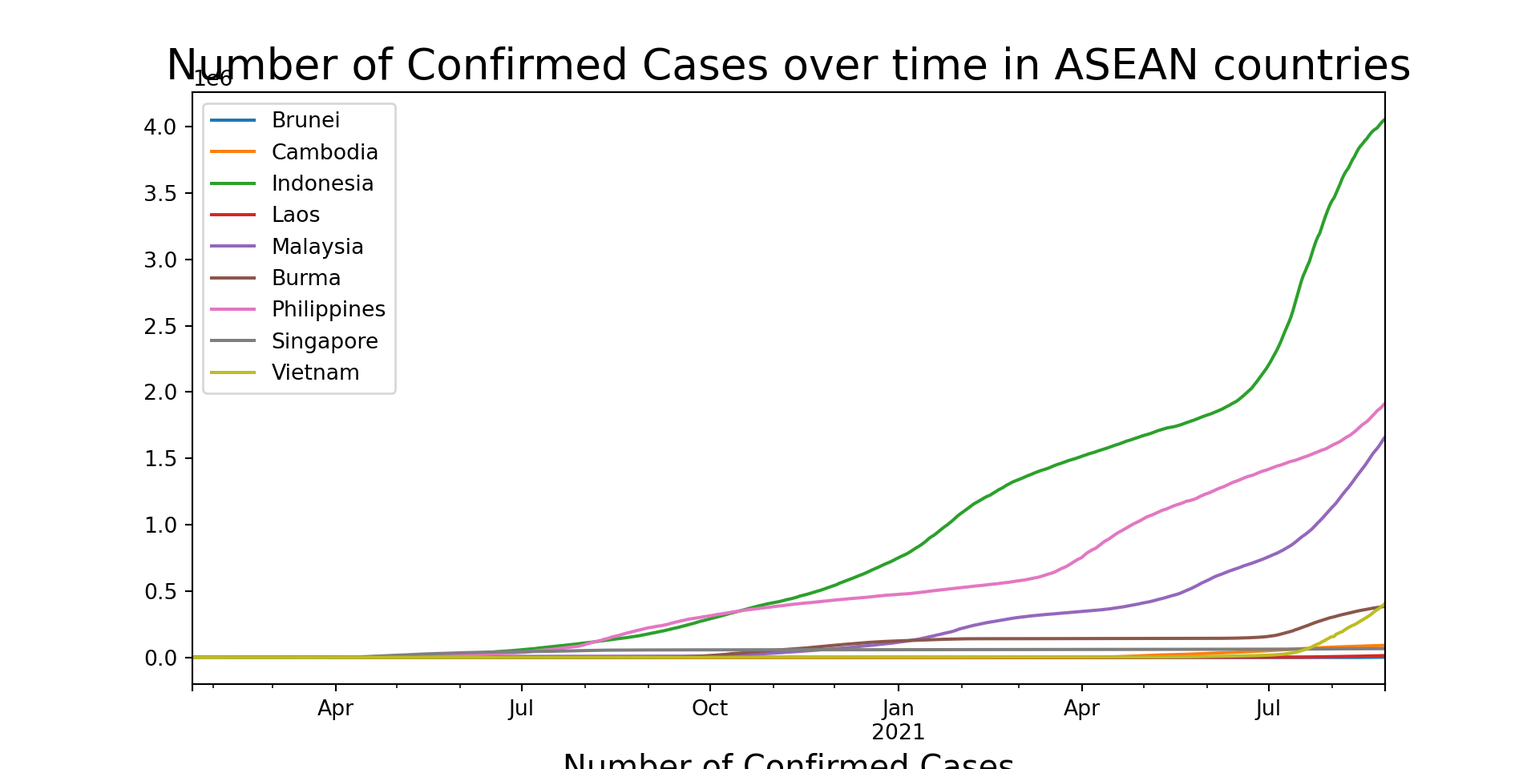
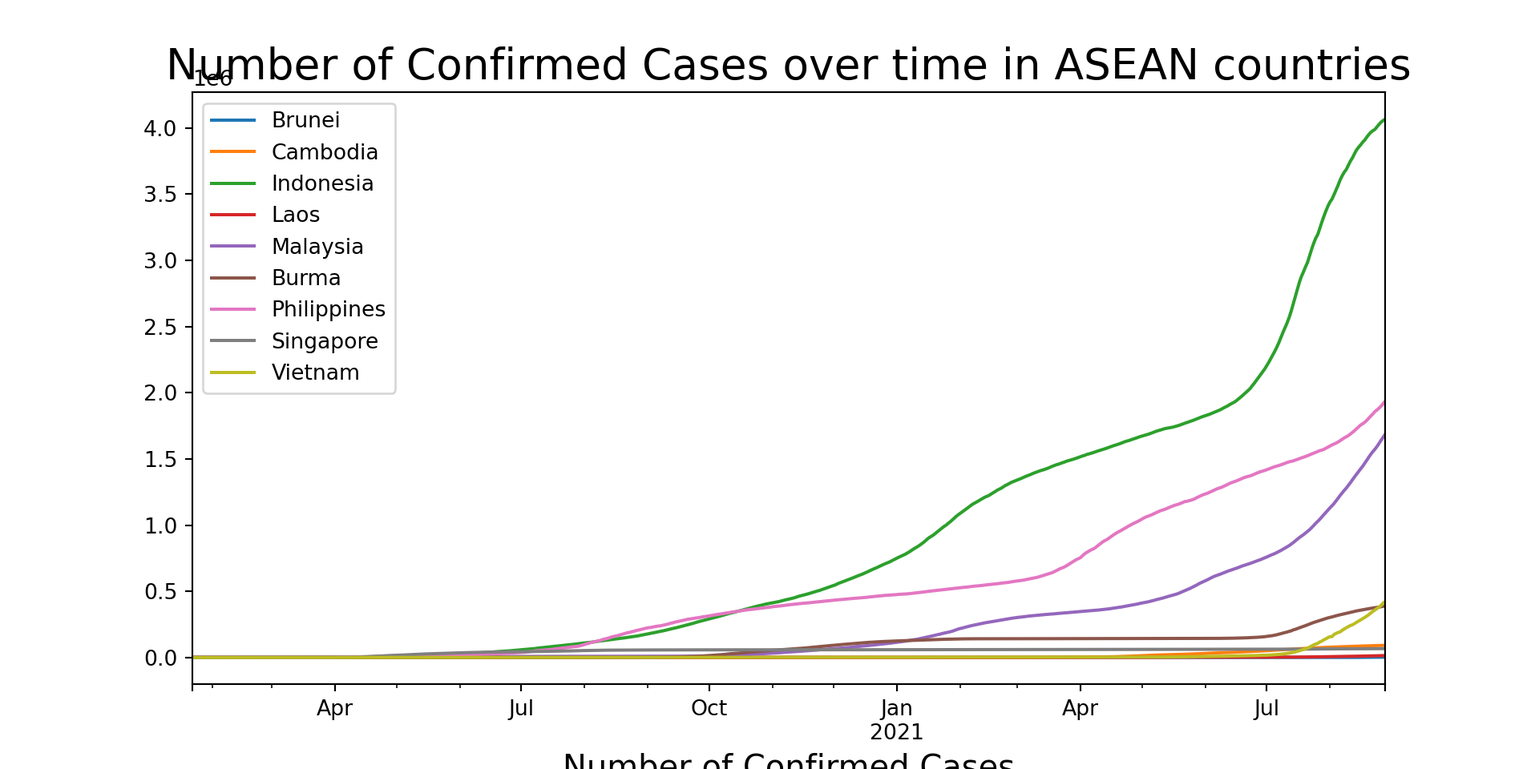
Updated Exploratory Plots using pandas using height weight gender
Found a dataset online containing height (inches) and weight (lbs) of various genders.

Dataset was trimmed to 100 Females and 100 Males. Height was converted to centimeters and weight was converted to kilograms. The rows were then shuffled.

This dataset was subsequently used for Exploratory Plots using Pandas.

diff --git a/docs/using-pandas-to-explore-data.html b/docs/using-pandas-to-explore-data.html
@@ -99,26 +99,27 @@
 <span id="cb59-7"><a href="using-pandas-to-explore-data.html#cb59-7" aria-hidden="true" tabindex="-1"></a>plt.subplots(figsize <span class="op">=</span> (<span class="dv">10</span>,<span class="dv">7</span>))</span>
 <span id="cb59-8"><a href="using-pandas-to-explore-data.html#cb59-8" aria-hidden="true" tabindex="-1"></a></span>
 <span id="cb59-9"><a href="using-pandas-to-explore-data.html#cb59-9" aria-hidden="true" tabindex="-1"></a><span class="co"># Reading in the dataset as df</span></span>
-<span id="cb59-10"><a href="using-pandas-to-explore-data.html#cb59-10" aria-hidden="true" tabindex="-1"></a>df <span class="op">=</span> pd.read_csv(<span class="st">"https://raw.githubusercontent.com/darren1998s/darren1998s.github.io/main/iris.csv"</span>)</span>
+<span id="cb59-10"><a href="using-pandas-to-explore-data.html#cb59-10" aria-hidden="true" tabindex="-1"></a>df <span class="op">=</span> pd.read_csv(<span class="st">"https://raw.githubusercontent.com/nus-sps/workshops.tfi.data-visualisation/main/files/height-weight-metric.csv"</span>)</span>
 <span id="cb59-11"><a href="using-pandas-to-explore-data.html#cb59-11" aria-hidden="true" tabindex="-1"></a></span>
 <span id="cb59-12"><a href="using-pandas-to-explore-data.html#cb59-12" aria-hidden="true" tabindex="-1"></a><span class="co"># Creating a function to calculate standard error</span></span>
 <span id="cb59-13"><a href="using-pandas-to-explore-data.html#cb59-13" aria-hidden="true" tabindex="-1"></a><span class="kw">def</span> se(data):</span>
 <span id="cb59-14"><a href="using-pandas-to-explore-data.html#cb59-14" aria-hidden="true" tabindex="-1"></a>    <span class="cf">return</span> np.std(data) <span class="op">/</span> np.sqrt(data.count())</span>
 <span id="cb59-15"><a href="using-pandas-to-explore-data.html#cb59-15" aria-hidden="true" tabindex="-1"></a></span>
-<span id="cb59-16"><a href="using-pandas-to-explore-data.html#cb59-16" aria-hidden="true" tabindex="-1"></a><span class="co"># Grouping the data set of "Petal.Length" by Species</span></span>
-<span id="cb59-17"><a href="using-pandas-to-explore-data.html#cb59-17" aria-hidden="true" tabindex="-1"></a>grouped_species <span class="op">=</span> df.groupby(<span class="st">"Species"</span>)[<span class="st">'Petal.Length'</span>]</span>
+<span id="cb59-16"><a href="using-pandas-to-explore-data.html#cb59-16" aria-hidden="true" tabindex="-1"></a><span class="co"># Grouping the data set of "Height" by Gender</span></span>
+<span id="cb59-17"><a href="using-pandas-to-explore-data.html#cb59-17" aria-hidden="true" tabindex="-1"></a>grouped_gender <span class="op">=</span> df.groupby(<span class="st">"Gender"</span>)[<span class="st">'Height'</span>]</span>
 <span id="cb59-18"><a href="using-pandas-to-explore-data.html#cb59-18" aria-hidden="true" tabindex="-1"></a></span>
 <span id="cb59-19"><a href="using-pandas-to-explore-data.html#cb59-19" aria-hidden="true" tabindex="-1"></a><span class="co"># Applying functions np.mean() and se() to our grouped dataset</span></span>
-<span id="cb59-20"><a href="using-pandas-to-explore-data.html#cb59-20" aria-hidden="true" tabindex="-1"></a>new_df <span class="op">=</span> grouped_species.agg([np.mean, se])</span>
+<span id="cb59-20"><a href="using-pandas-to-explore-data.html#cb59-20" aria-hidden="true" tabindex="-1"></a>new_df <span class="op">=</span> grouped_gender.agg([np.mean, se])</span>
 <span id="cb59-21"><a href="using-pandas-to-explore-data.html#cb59-21" aria-hidden="true" tabindex="-1"></a></span>
 <span id="cb59-22"><a href="using-pandas-to-explore-data.html#cb59-22" aria-hidden="true" tabindex="-1"></a>new_df.plot(kind <span class="op">=</span> <span class="st">'bar'</span>, yerr <span class="op">=</span> <span class="st">'se'</span>,capsize<span class="op">=</span><span class="dv">10</span>, rot<span class="op">=</span><span class="dv">0</span>)</span>
 <span id="cb59-23"><a href="using-pandas-to-explore-data.html#cb59-23" aria-hidden="true" tabindex="-1"></a></span>
 <span id="cb59-24"><a href="using-pandas-to-explore-data.html#cb59-24" aria-hidden="true" tabindex="-1"></a><span class="co"># Don't forget to add the labels for clarity!</span></span>
-<span id="cb59-25"><a href="using-pandas-to-explore-data.html#cb59-25" aria-hidden="true" tabindex="-1"></a>plt.ylabel(<span class="st">'Average Petal Length'</span>, fontsize <span class="op">=</span> <span class="dv">10</span>)</span>
-<span id="cb59-26"><a href="using-pandas-to-explore-data.html#cb59-26" aria-hidden="true" tabindex="-1"></a>plt.xlabel(<span class="st">'Species'</span>, fontsize <span class="op">=</span> <span class="dv">10</span>)</span>
-<span id="cb59-27"><a href="using-pandas-to-explore-data.html#cb59-27" aria-hidden="true" tabindex="-1"></a>plt.title(<span class="st">'Average Petal Length vs Species'</span>, fontsize <span class="op">=</span> <span class="dv">20</span>)</span>
-<span id="cb59-28"><a href="using-pandas-to-explore-data.html#cb59-28" aria-hidden="true" tabindex="-1"></a>plt.tight_layout()</span>
-<span id="cb59-29"><a href="using-pandas-to-explore-data.html#cb59-29" aria-hidden="true" tabindex="-1"></a>plt.show()</span></code></pre></div>
+<span id="cb59-25"><a href="using-pandas-to-explore-data.html#cb59-25" aria-hidden="true" tabindex="-1"></a>plt.ylabel(<span class="st">'Average Height (cm)'</span>, fontsize <span class="op">=</span> <span class="dv">10</span>)</span>
+<span id="cb59-26"><a href="using-pandas-to-explore-data.html#cb59-26" aria-hidden="true" tabindex="-1"></a>plt.xlabel(<span class="st">'Gender'</span>, fontsize <span class="op">=</span> <span class="dv">10</span>)</span>
+<span id="cb59-27"><a href="using-pandas-to-explore-data.html#cb59-27" aria-hidden="true" tabindex="-1"></a>plt.title(<span class="st">'Average Height (cm) vs Gender'</span>, fontsize <span class="op">=</span> <span class="dv">20</span>)</span>
+<span id="cb59-28"><a href="using-pandas-to-explore-data.html#cb59-28" aria-hidden="true" tabindex="-1"></a>plt.legend().remove</span>
+<span id="cb59-29"><a href="using-pandas-to-explore-data.html#cb59-29" aria-hidden="true" tabindex="-1"></a>plt.tight_layout()</span>
+<span id="cb59-30"><a href="using-pandas-to-explore-data.html#cb59-30" aria-hidden="true" tabindex="-1"></a>plt.show()</span></code></pre></div>
 </div>
 </div>
 </div>
@@ -149,15 +150,15 @@
 <span id="cb60-6"><a href="using-pandas-to-explore-data.html#cb60-6" aria-hidden="true" tabindex="-1"></a>plt.subplots(figsize <span class="op">=</span> (<span class="dv">10</span>,<span class="dv">7</span>))</span>
 <span id="cb60-7"><a href="using-pandas-to-explore-data.html#cb60-7" aria-hidden="true" tabindex="-1"></a></span>
 <span id="cb60-8"><a href="using-pandas-to-explore-data.html#cb60-8" aria-hidden="true" tabindex="-1"></a><span class="co"># Reading in the dataset as df</span></span>
-<span id="cb60-9"><a href="using-pandas-to-explore-data.html#cb60-9" aria-hidden="true" tabindex="-1"></a>df <span class="op">=</span> pd.read_csv(<span class="st">"https://raw.githubusercontent.com/darren1998s/darren1998s.github.io/main/iris.csv"</span>)</span>
+<span id="cb60-9"><a href="using-pandas-to-explore-data.html#cb60-9" aria-hidden="true" tabindex="-1"></a>df <span class="op">=</span> pd.read_csv(<span class="st">"https://raw.githubusercontent.com/nus-sps/workshops.tfi.data-visualisation/main/files/height-weight-metric.csv"</span>)</span>
 <span id="cb60-10"><a href="using-pandas-to-explore-data.html#cb60-10" aria-hidden="true" tabindex="-1"></a></span>
-<span id="cb60-11"><a href="using-pandas-to-explore-data.html#cb60-11" aria-hidden="true" tabindex="-1"></a>df[<span class="st">'Petal.Length'</span>].plot(kind<span class="op">=</span><span class="st">'hist'</span>)</span>
+<span id="cb60-11"><a href="using-pandas-to-explore-data.html#cb60-11" aria-hidden="true" tabindex="-1"></a>df[<span class="st">'Height'</span>].plot(kind<span class="op">=</span><span class="st">'hist'</span>)</span>
 <span id="cb60-12"><a href="using-pandas-to-explore-data.html#cb60-12" aria-hidden="true" tabindex="-1"></a></span>
 <span id="cb60-13"><a href="using-pandas-to-explore-data.html#cb60-13" aria-hidden="true" tabindex="-1"></a></span>
 <span id="cb60-14"><a href="using-pandas-to-explore-data.html#cb60-14" aria-hidden="true" tabindex="-1"></a><span class="co"># Label your axis</span></span>
 <span id="cb60-15"><a href="using-pandas-to-explore-data.html#cb60-15" aria-hidden="true" tabindex="-1"></a>plt.ylabel(<span class="st">'Frequency'</span>, fontsize <span class="op">=</span> <span class="dv">10</span>)</span>
-<span id="cb60-16"><a href="using-pandas-to-explore-data.html#cb60-16" aria-hidden="true" tabindex="-1"></a>plt.xlabel(<span class="st">'Petal Length'</span>, fontsize <span class="op">=</span> <span class="dv">10</span>)</span>
-<span id="cb60-17"><a href="using-pandas-to-explore-data.html#cb60-17" aria-hidden="true" tabindex="-1"></a>plt.title(<span class="st">'Frequency of Petal Length'</span>, fontsize <span class="op">=</span> <span class="dv">20</span>)</span>
+<span id="cb60-16"><a href="using-pandas-to-explore-data.html#cb60-16" aria-hidden="true" tabindex="-1"></a>plt.xlabel(<span class="st">'Height (cm)'</span>, fontsize <span class="op">=</span> <span class="dv">10</span>)</span>
+<span id="cb60-17"><a href="using-pandas-to-explore-data.html#cb60-17" aria-hidden="true" tabindex="-1"></a>plt.title(<span class="st">'Histogram of Height (cm)'</span>, fontsize <span class="op">=</span> <span class="dv">20</span>)</span>
 <span id="cb60-18"><a href="using-pandas-to-explore-data.html#cb60-18" aria-hidden="true" tabindex="-1"></a>plt.tight_layout()</span>
 <span id="cb60-19"><a href="using-pandas-to-explore-data.html#cb60-19" aria-hidden="true" tabindex="-1"></a>plt.legend()</span>
 <span id="cb60-20"><a href="using-pandas-to-explore-data.html#cb60-20" aria-hidden="true" tabindex="-1"></a>plt.show()</span></code></pre></div>
@@ -182,16 +183,16 @@
 <span id="cb61-6"><a href="using-pandas-to-explore-data.html#cb61-6" aria-hidden="true" tabindex="-1"></a>plt.subplots(figsize <span class="op">=</span> (<span class="dv">10</span>,<span class="dv">7</span>))</span>
 <span id="cb61-7"><a href="using-pandas-to-explore-data.html#cb61-7" aria-hidden="true" tabindex="-1"></a></span>
 <span id="cb61-8"><a href="using-pandas-to-explore-data.html#cb61-8" aria-hidden="true" tabindex="-1"></a><span class="co"># Reading in the dataset as df</span></span>
-<span id="cb61-9"><a href="using-pandas-to-explore-data.html#cb61-9" aria-hidden="true" tabindex="-1"></a>df <span class="op">=</span> pd.read_csv(<span class="st">"https://raw.githubusercontent.com/darren1998s/darren1998s.github.io/main/iris.csv"</span>)</span>
+<span id="cb61-9"><a href="using-pandas-to-explore-data.html#cb61-9" aria-hidden="true" tabindex="-1"></a>df <span class="op">=</span> pd.read_csv(<span class="st">"https://raw.githubusercontent.com/nus-sps/workshops.tfi.data-visualisation/main/files/height-weight-metric.csv"</span>)</span>
 <span id="cb61-10"><a href="using-pandas-to-explore-data.html#cb61-10" aria-hidden="true" tabindex="-1"></a></span>
-<span id="cb61-11"><a href="using-pandas-to-explore-data.html#cb61-11" aria-hidden="true" tabindex="-1"></a>grouped_species <span class="op">=</span> df.groupby(<span class="st">"Species"</span>)[<span class="st">'Petal.Length'</span>]</span>
-<span id="cb61-12"><a href="using-pandas-to-explore-data.html#cb61-12" aria-hidden="true" tabindex="-1"></a>grouped_species.plot(kind<span class="op">=</span><span class="st">'hist'</span>, alpha <span class="op">=</span> <span class="fl">0.5</span>)</span>
+<span id="cb61-11"><a href="using-pandas-to-explore-data.html#cb61-11" aria-hidden="true" tabindex="-1"></a>grouped_gender <span class="op">=</span> df.groupby(<span class="st">"Gender"</span>)[<span class="st">'Height'</span>]</span>
+<span id="cb61-12"><a href="using-pandas-to-explore-data.html#cb61-12" aria-hidden="true" tabindex="-1"></a>grouped_gender.plot(kind<span class="op">=</span><span class="st">'hist'</span>, alpha <span class="op">=</span> <span class="fl">0.5</span>, bins <span class="op">=</span> <span class="dv">15</span>)</span>
 <span id="cb61-13"><a href="using-pandas-to-explore-data.html#cb61-13" aria-hidden="true" tabindex="-1"></a></span>
 <span id="cb61-14"><a href="using-pandas-to-explore-data.html#cb61-14" aria-hidden="true" tabindex="-1"></a></span>
 <span id="cb61-15"><a href="using-pandas-to-explore-data.html#cb61-15" aria-hidden="true" tabindex="-1"></a><span class="co"># Label your axis</span></span>
 <span id="cb61-16"><a href="using-pandas-to-explore-data.html#cb61-16" aria-hidden="true" tabindex="-1"></a>plt.ylabel(<span class="st">'Frequency'</span>, fontsize <span class="op">=</span> <span class="dv">10</span>)</span>
-<span id="cb61-17"><a href="using-pandas-to-explore-data.html#cb61-17" aria-hidden="true" tabindex="-1"></a>plt.xlabel(<span class="st">'Petal Length'</span>, fontsize <span class="op">=</span> <span class="dv">10</span>)</span>
-<span id="cb61-18"><a href="using-pandas-to-explore-data.html#cb61-18" aria-hidden="true" tabindex="-1"></a>plt.title(<span class="st">'Frequency of Petal Length grouped by Species'</span>, fontsize <span class="op">=</span> <span class="dv">20</span>)</span>
+<span id="cb61-17"><a href="using-pandas-to-explore-data.html#cb61-17" aria-hidden="true" tabindex="-1"></a>plt.xlabel(<span class="st">'Height (cm)'</span>, fontsize <span class="op">=</span> <span class="dv">10</span>)</span>
+<span id="cb61-18"><a href="using-pandas-to-explore-data.html#cb61-18" aria-hidden="true" tabindex="-1"></a>plt.title(<span class="st">'Histogram of Height (cm) grouped by Gender'</span>, fontsize <span class="op">=</span> <span class="dv">20</span>)</span>
 <span id="cb61-19"><a href="using-pandas-to-explore-data.html#cb61-19" aria-hidden="true" tabindex="-1"></a>plt.tight_layout()</span>
 <span id="cb61-20"><a href="using-pandas-to-explore-data.html#cb61-20" aria-hidden="true" tabindex="-1"></a>plt.legend()</span>
 <span id="cb61-21"><a href="using-pandas-to-explore-data.html#cb61-21" aria-hidden="true" tabindex="-1"></a>plt.show()</span></code></pre></div>
@@ -225,15 +226,15 @@
 <span id="cb62-6"><a href="using-pandas-to-explore-data.html#cb62-6" aria-hidden="true" tabindex="-1"></a>plt.subplots(figsize <span class="op">=</span> (<span class="dv">10</span>,<span class="dv">7</span>))</span>
 <span id="cb62-7"><a href="using-pandas-to-explore-data.html#cb62-7" aria-hidden="true" tabindex="-1"></a></span>
 <span id="cb62-8"><a href="using-pandas-to-explore-data.html#cb62-8" aria-hidden="true" tabindex="-1"></a><span class="co"># Reading in the dataset as df</span></span>
-<span id="cb62-9"><a href="using-pandas-to-explore-data.html#cb62-9" aria-hidden="true" tabindex="-1"></a>df <span class="op">=</span> pd.read_csv(<span class="st">"https://raw.githubusercontent.com/darren1998s/darren1998s.github.io/main/iris.csv"</span>)</span>
+<span id="cb62-9"><a href="using-pandas-to-explore-data.html#cb62-9" aria-hidden="true" tabindex="-1"></a>df <span class="op">=</span> pd.read_csv(<span class="st">"https://raw.githubusercontent.com/nus-sps/workshops.tfi.data-visualisation/main/files/height-weight-metric.csv"</span>)</span>
 <span id="cb62-10"><a href="using-pandas-to-explore-data.html#cb62-10" aria-hidden="true" tabindex="-1"></a></span>
 <span id="cb62-11"><a href="using-pandas-to-explore-data.html#cb62-11" aria-hidden="true" tabindex="-1"></a></span>
-<span id="cb62-12"><a href="using-pandas-to-explore-data.html#cb62-12" aria-hidden="true" tabindex="-1"></a>df.plot(<span class="st">"Petal.Width"</span>, <span class="st">'Petal.Length'</span>, kind<span class="op">=</span><span class="st">'scatter'</span>)</span>
+<span id="cb62-12"><a href="using-pandas-to-explore-data.html#cb62-12" aria-hidden="true" tabindex="-1"></a>df.plot(<span class="st">"Height"</span>, <span class="st">'Weight'</span>, kind<span class="op">=</span><span class="st">'scatter'</span>)</span>
 <span id="cb62-13"><a href="using-pandas-to-explore-data.html#cb62-13" aria-hidden="true" tabindex="-1"></a></span>
 <span id="cb62-14"><a href="using-pandas-to-explore-data.html#cb62-14" aria-hidden="true" tabindex="-1"></a><span class="co"># Label your axis</span></span>
-<span id="cb62-15"><a href="using-pandas-to-explore-data.html#cb62-15" aria-hidden="true" tabindex="-1"></a>plt.ylabel(<span class="st">'Petal Length'</span>, fontsize <span class="op">=</span> <span class="dv">10</span>)</span>
-<span id="cb62-16"><a href="using-pandas-to-explore-data.html#cb62-16" aria-hidden="true" tabindex="-1"></a>plt.xlabel(<span class="st">'Petal Width'</span>, fontsize <span class="op">=</span> <span class="dv">10</span>)</span>
-<span id="cb62-17"><a href="using-pandas-to-explore-data.html#cb62-17" aria-hidden="true" tabindex="-1"></a>plt.title(<span class="st">'Length vs Width of Petals'</span>, fontsize <span class="op">=</span> <span class="dv">20</span>)</span>
+<span id="cb62-15"><a href="using-pandas-to-explore-data.html#cb62-15" aria-hidden="true" tabindex="-1"></a>plt.xlabel(<span class="st">'Height (cm)'</span>, fontsize <span class="op">=</span> <span class="dv">10</span>)</span>
+<span id="cb62-16"><a href="using-pandas-to-explore-data.html#cb62-16" aria-hidden="true" tabindex="-1"></a>plt.ylabel(<span class="st">'Weight (kg)'</span>, fontsize <span class="op">=</span> <span class="dv">10</span>)</span>
+<span id="cb62-17"><a href="using-pandas-to-explore-data.html#cb62-17" aria-hidden="true" tabindex="-1"></a>plt.title(<span class="st">'Weight (kg) vs Height (cm)'</span>, fontsize <span class="op">=</span> <span class="dv">20</span>)</span>
 <span id="cb62-18"><a href="using-pandas-to-explore-data.html#cb62-18" aria-hidden="true" tabindex="-1"></a>plt.tight_layout()</span>
 <span id="cb62-19"><a href="using-pandas-to-explore-data.html#cb62-19" aria-hidden="true" tabindex="-1"></a>plt.legend()</span>
 <span id="cb62-20"><a href="using-pandas-to-explore-data.html#cb62-20" aria-hidden="true" tabindex="-1"></a>plt.show()</span></code></pre></div>
@@ -257,21 +258,21 @@
 <span id="cb63-6"><a href="using-pandas-to-explore-data.html#cb63-6" aria-hidden="true" tabindex="-1"></a>plt.subplots(figsize <span class="op">=</span> (<span class="dv">10</span>,<span class="dv">7</span>))</span>
 <span id="cb63-7"><a href="using-pandas-to-explore-data.html#cb63-7" aria-hidden="true" tabindex="-1"></a></span>
 <span id="cb63-8"><a href="using-pandas-to-explore-data.html#cb63-8" aria-hidden="true" tabindex="-1"></a><span class="co"># Reading in the dataset as df</span></span>
-<span id="cb63-9"><a href="using-pandas-to-explore-data.html#cb63-9" aria-hidden="true" tabindex="-1"></a>df <span class="op">=</span> pd.read_csv(<span class="st">"https://raw.githubusercontent.com/darren1998s/darren1998s.github.io/main/iris.csv"</span>)</span>
+<span id="cb63-9"><a href="using-pandas-to-explore-data.html#cb63-9" aria-hidden="true" tabindex="-1"></a>df <span class="op">=</span> pd.read_csv(<span class="st">"https://raw.githubusercontent.com/nus-sps/workshops.tfi.data-visualisation/main/files/height-weight-metric.csv"</span>)</span>
 <span id="cb63-10"><a href="using-pandas-to-explore-data.html#cb63-10" aria-hidden="true" tabindex="-1"></a></span>
-<span id="cb63-11"><a href="using-pandas-to-explore-data.html#cb63-11" aria-hidden="true" tabindex="-1"></a>grouped_species <span class="op">=</span> df.groupby(<span class="st">"Species"</span>)</span>
+<span id="cb63-11"><a href="using-pandas-to-explore-data.html#cb63-11" aria-hidden="true" tabindex="-1"></a>grouped_gender <span class="op">=</span> df.groupby(<span class="st">"Gender"</span>)</span>
 <span id="cb63-12"><a href="using-pandas-to-explore-data.html#cb63-12" aria-hidden="true" tabindex="-1"></a></span>
 <span id="cb63-13"><a href="using-pandas-to-explore-data.html#cb63-13" aria-hidden="true" tabindex="-1"></a><span class="co"># Calling plt.subplots().</span></span>
 <span id="cb63-14"><a href="using-pandas-to-explore-data.html#cb63-14" aria-hidden="true" tabindex="-1"></a>fig, ax <span class="op">=</span> plt.subplots()</span>
 <span id="cb63-15"><a href="using-pandas-to-explore-data.html#cb63-15" aria-hidden="true" tabindex="-1"></a></span>
-<span id="cb63-16"><a href="using-pandas-to-explore-data.html#cb63-16" aria-hidden="true" tabindex="-1"></a><span class="cf">for</span> name, species <span class="kw">in</span> grouped_species:</span>
-<span id="cb63-17"><a href="using-pandas-to-explore-data.html#cb63-17" aria-hidden="true" tabindex="-1"></a>    ax.scatter(species[<span class="st">"Petal.Width"</span>], species[<span class="st">"Petal.Length"</span>], label<span class="op">=</span>name)</span>
+<span id="cb63-16"><a href="using-pandas-to-explore-data.html#cb63-16" aria-hidden="true" tabindex="-1"></a><span class="cf">for</span> name, gender <span class="kw">in</span> grouped_gender:</span>
+<span id="cb63-17"><a href="using-pandas-to-explore-data.html#cb63-17" aria-hidden="true" tabindex="-1"></a>    ax.scatter(gender[<span class="st">"Height"</span>], gender[<span class="st">"Weight"</span>], label<span class="op">=</span>name)</span>
 <span id="cb63-18"><a href="using-pandas-to-explore-data.html#cb63-18" aria-hidden="true" tabindex="-1"></a></span>
 <span id="cb63-19"><a href="using-pandas-to-explore-data.html#cb63-19" aria-hidden="true" tabindex="-1"></a></span>
 <span id="cb63-20"><a href="using-pandas-to-explore-data.html#cb63-20" aria-hidden="true" tabindex="-1"></a><span class="co"># Label your axis</span></span>
-<span id="cb63-21"><a href="using-pandas-to-explore-data.html#cb63-21" aria-hidden="true" tabindex="-1"></a>plt.ylabel(<span class="st">'Petal Length'</span>, fontsize <span class="op">=</span> <span class="dv">10</span>)</span>
-<span id="cb63-22"><a href="using-pandas-to-explore-data.html#cb63-22" aria-hidden="true" tabindex="-1"></a>plt.xlabel(<span class="st">'Petal Width'</span>, fontsize <span class="op">=</span> <span class="dv">10</span>)</span>
-<span id="cb63-23"><a href="using-pandas-to-explore-data.html#cb63-23" aria-hidden="true" tabindex="-1"></a>plt.title(<span class="st">'Length vs Width of Petals grouped by Species'</span>, fontsize <span class="op">=</span> <span class="dv">20</span>)</span>
+<span id="cb63-21"><a href="using-pandas-to-explore-data.html#cb63-21" aria-hidden="true" tabindex="-1"></a>plt.xlabel(<span class="st">'Height (cm)'</span>, fontsize <span class="op">=</span> <span class="dv">10</span>)</span>
+<span id="cb63-22"><a href="using-pandas-to-explore-data.html#cb63-22" aria-hidden="true" tabindex="-1"></a>plt.ylabel(<span class="st">'Weight (kg)'</span>, fontsize <span class="op">=</span> <span class="dv">10</span>)</span>
+<span id="cb63-23"><a href="using-pandas-to-explore-data.html#cb63-23" aria-hidden="true" tabindex="-1"></a>plt.title(<span class="st">'Weight (kg) vs Height (cm) grouped by Gender'</span>, fontsize <span class="op">=</span> <span class="dv">20</span>)</span>
 <span id="cb63-24"><a href="using-pandas-to-explore-data.html#cb63-24" aria-hidden="true" tabindex="-1"></a>plt.tight_layout()</span>
 <span id="cb63-25"><a href="using-pandas-to-explore-data.html#cb63-25" aria-hidden="true" tabindex="-1"></a>plt.legend()</span>
 <span id="cb63-26"><a href="using-pandas-to-explore-data.html#cb63-26" aria-hidden="true" tabindex="-1"></a>plt.show()</span></code></pre></div>
@@ -306,18 +307,19 @@
 <span id="cb64-6"><a href="using-pandas-to-explore-data.html#cb64-6" aria-hidden="true" tabindex="-1"></a>plt.subplots(figsize <span class="op">=</span> (<span class="dv">10</span>,<span class="dv">7</span>))</span>
 <span id="cb64-7"><a href="using-pandas-to-explore-data.html#cb64-7" aria-hidden="true" tabindex="-1"></a></span>
 <span id="cb64-8"><a href="using-pandas-to-explore-data.html#cb64-8" aria-hidden="true" tabindex="-1"></a><span class="co"># Reading in the dataset as df</span></span>
-<span id="cb64-9"><a href="using-pandas-to-explore-data.html#cb64-9" aria-hidden="true" tabindex="-1"></a>df <span class="op">=</span> pd.read_csv(<span class="st">"https://raw.githubusercontent.com/darren1998s/darren1998s.github.io/main/iris.csv"</span>)</span>
+<span id="cb64-9"><a href="using-pandas-to-explore-data.html#cb64-9" aria-hidden="true" tabindex="-1"></a>df <span class="op">=</span> pd.read_csv(<span class="st">"https://raw.githubusercontent.com/nus-sps/workshops.tfi.data-visualisation/main/files/height-weight-metric.csv"</span>)</span>
 <span id="cb64-10"><a href="using-pandas-to-explore-data.html#cb64-10" aria-hidden="true" tabindex="-1"></a></span>
 <span id="cb64-11"><a href="using-pandas-to-explore-data.html#cb64-11" aria-hidden="true" tabindex="-1"></a><span class="co">#Plotting boxplot</span></span>
-<span id="cb64-12"><a href="using-pandas-to-explore-data.html#cb64-12" aria-hidden="true" tabindex="-1"></a>df.boxplot(<span class="st">'Petal.Length'</span>, by<span class="op">=</span><span class="st">'Species'</span>)</span>
-<span id="cb64-13"><a href="using-pandas-to-explore-data.html#cb64-13" aria-hidden="true" tabindex="-1"></a></span>
-<span id="cb64-14"><a href="using-pandas-to-explore-data.html#cb64-14" aria-hidden="true" tabindex="-1"></a><span class="co"># Don't forget to add the labels for clarity!</span></span>
-<span id="cb64-15"><a href="using-pandas-to-explore-data.html#cb64-15" aria-hidden="true" tabindex="-1"></a>plt.suptitle(<span class="st">''</span>)</span>
-<span id="cb64-16"><a href="using-pandas-to-explore-data.html#cb64-16" aria-hidden="true" tabindex="-1"></a>plt.title(<span class="st">'Average Petal Length vs Species'</span>, fontsize <span class="op">=</span> <span class="dv">20</span>)</span>
-<span id="cb64-17"><a href="using-pandas-to-explore-data.html#cb64-17" aria-hidden="true" tabindex="-1"></a>plt.ylabel(<span class="st">'Petal Length'</span>, fontsize <span class="op">=</span> <span class="dv">10</span>)</span>
-<span id="cb64-18"><a href="using-pandas-to-explore-data.html#cb64-18" aria-hidden="true" tabindex="-1"></a>plt.xlabel(<span class="st">'Species'</span>, fontsize <span class="op">=</span> <span class="dv">10</span>)</span>
-<span id="cb64-19"><a href="using-pandas-to-explore-data.html#cb64-19" aria-hidden="true" tabindex="-1"></a>plt.tight_layout()</span>
-<span id="cb64-20"><a href="using-pandas-to-explore-data.html#cb64-20" aria-hidden="true" tabindex="-1"></a>plt.show()</span></code></pre></div>
+<span id="cb64-12"><a href="using-pandas-to-explore-data.html#cb64-12" aria-hidden="true" tabindex="-1"></a>ax <span class="op">=</span> df.boxplot(<span class="st">'Height'</span>, by<span class="op">=</span><span class="st">'Gender'</span>)</span>
+<span id="cb64-13"><a href="using-pandas-to-explore-data.html#cb64-13" aria-hidden="true" tabindex="-1"></a>ax.grid(<span class="va">False</span>)</span>
+<span id="cb64-14"><a href="using-pandas-to-explore-data.html#cb64-14" aria-hidden="true" tabindex="-1"></a></span>
+<span id="cb64-15"><a href="using-pandas-to-explore-data.html#cb64-15" aria-hidden="true" tabindex="-1"></a><span class="co"># Don't forget to add the labels for clarity!</span></span>
+<span id="cb64-16"><a href="using-pandas-to-explore-data.html#cb64-16" aria-hidden="true" tabindex="-1"></a>plt.suptitle(<span class="st">''</span>)</span>
+<span id="cb64-17"><a href="using-pandas-to-explore-data.html#cb64-17" aria-hidden="true" tabindex="-1"></a>plt.title(<span class="st">'Boxplot of Height (cm) grouped by Gender'</span>, fontsize <span class="op">=</span> <span class="dv">20</span>)</span>
+<span id="cb64-18"><a href="using-pandas-to-explore-data.html#cb64-18" aria-hidden="true" tabindex="-1"></a>plt.ylabel(<span class="st">'Height (cm)'</span>, fontsize <span class="op">=</span> <span class="dv">10</span>)</span>
+<span id="cb64-19"><a href="using-pandas-to-explore-data.html#cb64-19" aria-hidden="true" tabindex="-1"></a>plt.xlabel(<span class="st">'Gender'</span>, fontsize <span class="op">=</span> <span class="dv">10</span>)</span>
+<span id="cb64-20"><a href="using-pandas-to-explore-data.html#cb64-20" aria-hidden="true" tabindex="-1"></a>plt.tight_layout()</span>
+<span id="cb64-21"><a href="using-pandas-to-explore-data.html#cb64-21" aria-hidden="true" tabindex="-1"></a>plt.show()</span></code></pre></div>
 
 </div>
 </div>

diff --git a/docs/using-pandas-to-explore-covid-19-data.html b/docs/using-pandas-to-explore-covid-19-data.html
@@ -102,7 +102,7 @@
 <span id="cb65-2"><a href="using-pandas-to-explore-covid-19-data.html#cb65-2" aria-hidden="true" tabindex="-1"></a>df <span class="op">=</span> pd.read_csv(data_url)</span>
 <span id="cb65-3"><a href="using-pandas-to-explore-covid-19-data.html#cb65-3" aria-hidden="true" tabindex="-1"></a></span>
 <span id="cb65-4"><a href="using-pandas-to-explore-covid-19-data.html#cb65-4" aria-hidden="true" tabindex="-1"></a>df.shape</span></code></pre></div>
-<pre><code>#&gt; (113880, 5)</code></pre>
+<pre><code>#&gt; (114075, 5)</code></pre>
 <div class="sourceCode" id="cb67"><pre class="sourceCode python"><code class="sourceCode python"><span id="cb67-1"><a href="using-pandas-to-explore-covid-19-data.html#cb67-1" aria-hidden="true" tabindex="-1"></a>df.columns</span></code></pre></div>
 <pre><code>#&gt; Index(['Date', 'Country', 'Confirmed', 'Recovered', 'Deaths'], dtype='object')</code></pre>
 <div class="sourceCode" id="cb69"><pre class="sourceCode python"><code class="sourceCode python"><span id="cb69-1"><a href="using-pandas-to-explore-covid-19-data.html#cb69-1" aria-hidden="true" tabindex="-1"></a>df.head()</span></code></pre></div>
@@ -114,27 +114,27 @@
 #&gt; 4  2020-01-26  Afghanistan          0          0       0</code></pre>
 <div class="sourceCode" id="cb71"><pre class="sourceCode python"><code class="sourceCode python"><span id="cb71-1"><a href="using-pandas-to-explore-covid-19-data.html#cb71-1" aria-hidden="true" tabindex="-1"></a>df.describe()</span></code></pre></div>
 <pre><code>#&gt;           Confirmed     Recovered         Deaths
-#&gt; count  1.138800e+05  1.138800e+05  113880.000000
-#&gt; mean   3.807556e+05  2.062825e+05    8892.648244
-#&gt; std    2.047039e+06  1.155713e+06   40526.301052
+#&gt; count  1.140750e+05  1.140750e+05  114075.000000
+#&gt; mean   3.819981e+05  2.059299e+05    8916.847530
+#&gt; std    2.052300e+06  1.154756e+06   40616.979073
 #&gt; min    0.000000e+00  0.000000e+00       0.000000
-#&gt; 25%    4.340000e+02  2.800000e+01       6.000000
-#&gt; 50%    9.642500e+03  3.887000e+03     154.000000
-#&gt; 75%    1.202160e+05  6.183175e+04    2158.250000
-#&gt; max    3.870725e+07  3.097475e+07  636720.000000</code></pre>
+#&gt; 25%    4.390000e+02  2.700000e+01       6.000000
+#&gt; 50%    9.700000e+03  3.864000e+03     154.000000
+#&gt; 75%    1.208565e+05  6.157650e+04    2173.000000
+#&gt; max    3.875701e+07  3.097475e+07  637244.000000</code></pre>
 <div class="sourceCode" id="cb73"><pre class="sourceCode python"><code class="sourceCode python"><span id="cb73-1"><a href="using-pandas-to-explore-covid-19-data.html#cb73-1" aria-hidden="true" tabindex="-1"></a>df.info()</span></code></pre></div>
 <pre><code>#&gt; &lt;class 'pandas.core.frame.DataFrame'&gt;
-#&gt; RangeIndex: 113880 entries, 0 to 113879
+#&gt; RangeIndex: 114075 entries, 0 to 114074
 #&gt; Data columns (total 5 columns):
 #&gt;  #   Column     Non-Null Count   Dtype 
 #&gt; ---  ------     --------------   ----- 
-#&gt;  0   Date       113880 non-null  object
-#&gt;  1   Country    113880 non-null  object
-#&gt;  2   Confirmed  113880 non-null  int64 
-#&gt;  3   Recovered  113880 non-null  int64 
-#&gt;  4   Deaths     113880 non-null  int64 
+#&gt;  0   Date       114075 non-null  object
+#&gt;  1   Country    114075 non-null  object
+#&gt;  2   Confirmed  114075 non-null  int64 
+#&gt;  3   Recovered  114075 non-null  int64 
+#&gt;  4   Deaths     114075 non-null  int64 
 #&gt; dtypes: int64(3), object(2)
-#&gt; memory usage: 4.3+ MB</code></pre>
+#&gt; memory usage: 4.4+ MB</code></pre>
 <!-- Exercise -->
 </div>
 </div>
@@ -212,11 +212,11 @@
 #&gt;   self._setitem_single_column(ilocs[0], value, pi)</code></pre>
 <div class="sourceCode" id="cb81"><pre class="sourceCode python"><code class="sourceCode python"><span id="cb81-1"><a href="using-pandas-to-explore-covid-19-data.html#cb81-1" aria-hidden="true" tabindex="-1"></a>asean_df.head()</span></code></pre></div>
 <pre><code>#&gt;             Date Country  Confirmed  Deaths
-#&gt; 14016 2020-01-22  Brunei          0       0
-#&gt; 14017 2020-01-23  Brunei          0       0
-#&gt; 14018 2020-01-24  Brunei          0       0
-#&gt; 14019 2020-01-25  Brunei          0       0
-#&gt; 14020 2020-01-26  Brunei          0       0</code></pre>
+#&gt; 14040 2020-01-22  Brunei          0       0
+#&gt; 14041 2020-01-23  Brunei          0       0
+#&gt; 14042 2020-01-24  Brunei          0       0
+#&gt; 14043 2020-01-25  Brunei          0       0
+#&gt; 14044 2020-01-26  Brunei          0       0</code></pre>
 </div>
 </div>
 </div>
@@ -318,7 +318,7 @@ Hint: Maybe make the barchart descending!</p></li>
 #&gt; &lt;AxesSubplot:xlabel='Date'&gt;
 #&gt; &lt;AxesSubplot:xlabel='Date'&gt;</code></pre>
 <div class="sourceCode" id="cb95"><pre class="sourceCode python"><code class="sourceCode python"><span id="cb95-1"><a href="using-pandas-to-explore-covid-19-data.html#cb95-1" aria-hidden="true" tabindex="-1"></a>plt.legend()</span></code></pre></div>
-<pre><code>#&gt; &lt;matplotlib.legend.Legend object at 0x0000000061D318B0&gt;</code></pre>
+<pre><code>#&gt; &lt;matplotlib.legend.Legend object at 0x000000006233D580&gt;</code></pre>
 <div class="sourceCode" id="cb97"><pre class="sourceCode python"><code class="sourceCode python"><span id="cb97-1"><a href="using-pandas-to-explore-covid-19-data.html#cb97-1" aria-hidden="true" tabindex="-1"></a>plt.xlabel(<span class="st">'Number of Confirmed Cases'</span>, fontsize <span class="op">=</span> <span class="dv">15</span>)</span></code></pre></div>
 <pre><code>#&gt; Text(0.5, 0, 'Number of Confirmed Cases')</code></pre>
 <div class="sourceCode" id="cb99"><pre class="sourceCode python"><code class="sourceCode python"><span id="cb99-1"><a href="using-pandas-to-explore-covid-19-data.html#cb99-1" aria-hidden="true" tabindex="-1"></a>plt.title(<span class="st">'Number of Confirmed Cases over time in ASEAN countries'</span>, fontsize <span class="op">=</span> <span class="dv">20</span>)</span></code></pre></div>
